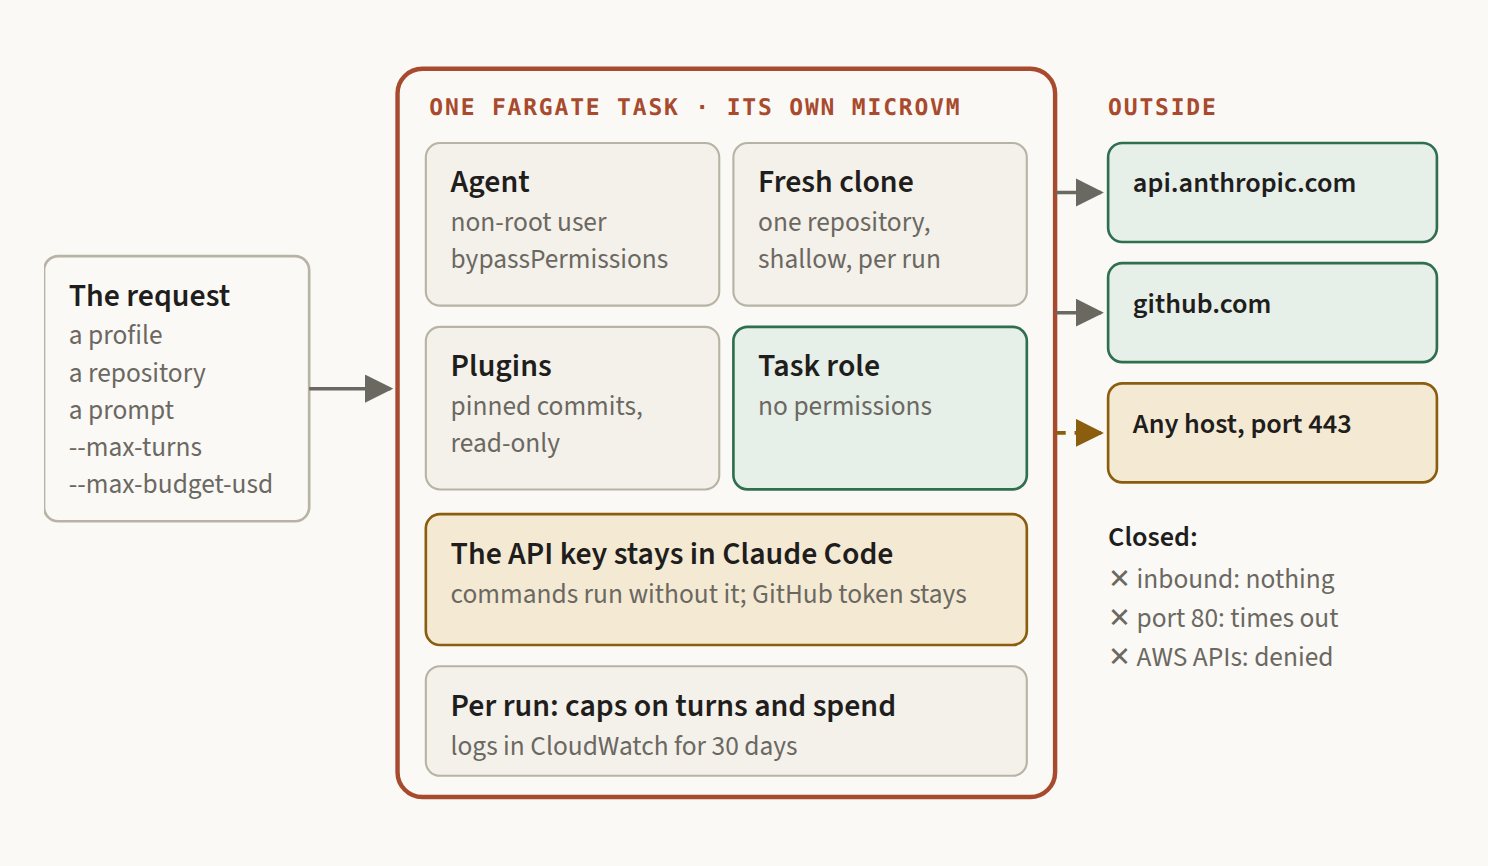
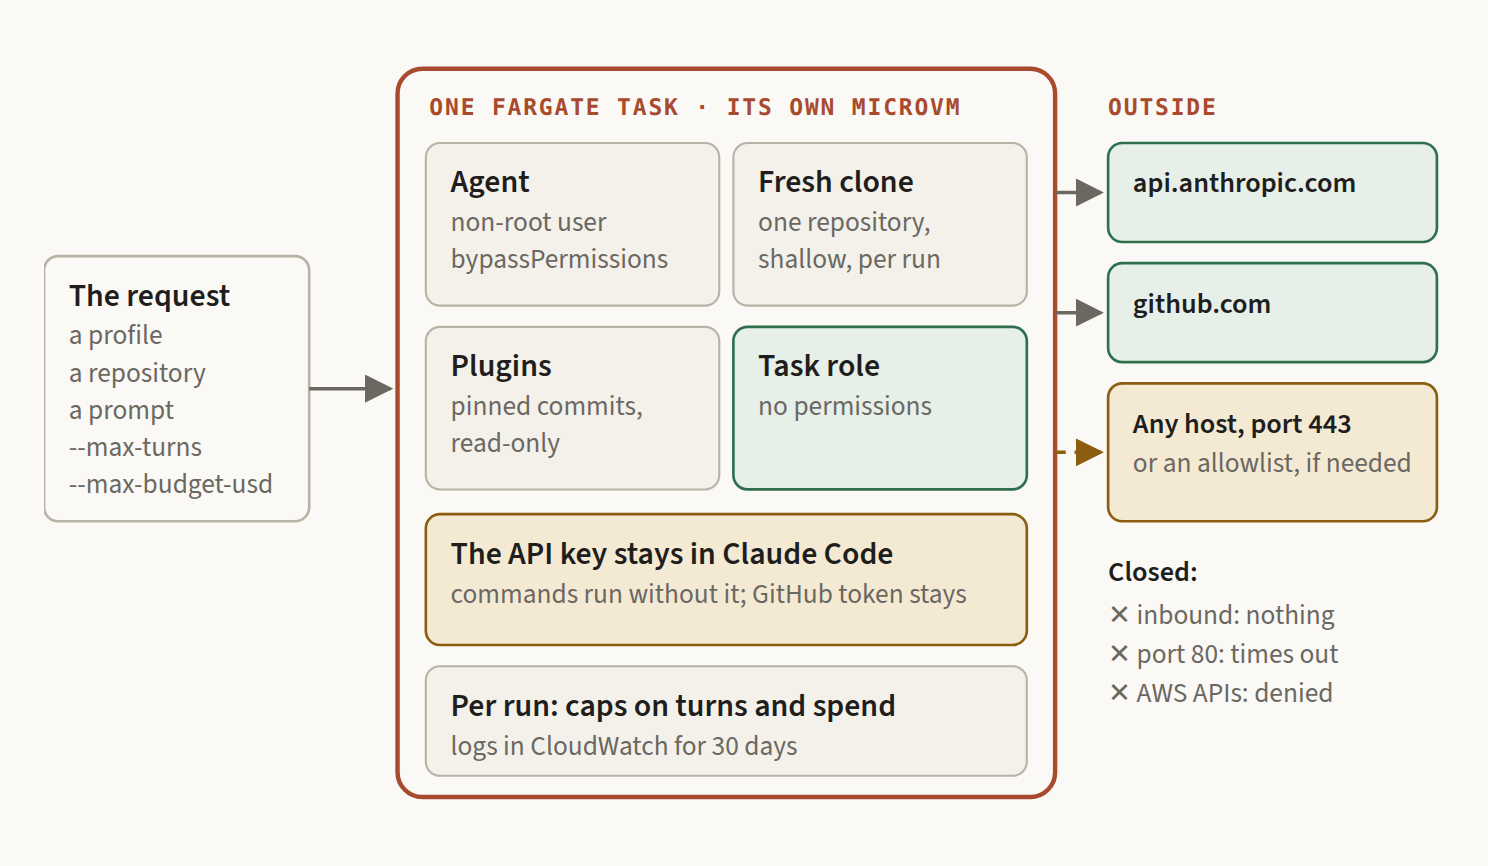
docs(articles): sandbox article - current state only, and the HTTPS allowlist
- the article describes the setup as it is: the scrub is part of the design and a
  probe checks it; no account of how it was found or fixed
- outbound HTTPS is open by default and can be restricted to an allowlist when a
  job needs it: in the design list, in leak 2 and in figure b1
- a hidden publish gate (an HTML comment) replaces the visible placeholder

Claude-Session: https://claude.ai/code/session_01EmG14EyCxmBJhJ5PsEeZFk

Changed region(s): [[0.7419, 0.53, 0.9892, 0.8106], [0.711, 0.4677, 0.7419, 0.53]]

diff --git a/articles/the-box-is-only-half-the-boundary.md b/articles/the-box-is-only-half-the-boundary.md
@@ -1,6 +1,6 @@
 # The Box Is Only Half the Boundary
 
-*What sixteen disposable Claude Code runs taught us about sandboxing coding agents, and the three leaks we found in our own.*
+*How we sandbox Claude Code on AWS Fargate, what sixteen disposable runs measured, and the three leaks a box does not close on its own.*
 
 ![A figure made of glowing sand presses its hand against the glass wall of a shipping crate labelled "Sand Genius", "High value intellectual asset" and "Export only", on a dock at sunset. A panel on the crate reads "A brilliant mind shouldn't stay confined."](images/header-sand-genius-in-a-crate.jpg)
 *Sand Genius, crated for shipping. AI-generated illustration.*
@@ -11,7 +11,7 @@ The crate in the picture carries the objection every team hears the first time i
 
 It is a fair point. An agent that has to ask before every `rm`, every `curl` and every `pip install` is not much of an agent, so teams switch the permission prompts off. Then comes the question that matters: with the prompts gone, what is left between the agent and everything else?
 
-We switched ours off too. The image in **[claude-docker-public](https://github.com/fibtecltd/claude-docker-public)** runs Claude Code with `bypassPermissions`, headless, on AWS Fargate. This post is about what makes that defensible, what we measured to check it, and the three leaks we found in it. Anthropic's own documentation is blunt about the problem underneath: bypass mode "offers no protection against prompt injection or unintended actions." A sandbox can't fix that. It can only decide how far the damage reaches.
+We switched ours off too. The image in **[claude-docker-public](https://github.com/fibtecltd/claude-docker-public)** runs Claude Code with `bypassPermissions`, headless, on AWS Fargate. This post is about what makes that defensible, what we measured to check it, and the three leaks a box does not close on its own. Anthropic's own documentation is blunt about the problem underneath: bypass mode "offers no protection against prompt injection or unintended actions." A sandbox can't fix that. It can only decide how far the damage reaches.
 
 ## Three questions every agent sandbox answers
 
@@ -33,16 +33,17 @@ One image, and one Fargate task per run. A run is an `ecs run-task` call; betwee
 - **A non-root user, nothing executed at start.** Claude Code refuses to start in bypass mode as root anyway.
 - **No volumes and no host mounts.** The only code in the box is a shallow clone of the one repository named in the request.
 - **A task role with no permissions.** Anything inside can sign AWS requests as the task role, and the role is allowed nothing.
-- **No inbound rule, and outbound HTTPS only.** One security group, one rule.
+- **No inbound rule, and outbound HTTPS only.** One security group, one rule. HTTPS is open to any host by default and can be restricted to an allowlist of hosts when a job needs it (leak 2 below).
+- **Commands do not inherit the API key.** The image sets Claude Code's subprocess scrub, and every guardrail run checks it from inside the task (leak 1 below).
 - **A pinned supply chain.** Plugins are fetched at the commits in a lock file at build time, owned by root and read-only for the agent. There is no marketplace call at run time, and CI fails the build if a credential is left in the image or its history.
 - **Caps on every run.** `--max-turns` and `--max-budget-usd` are required: limits belong to the task, not to the image.
 
-![One task, one box: the request names a profile and a repository; the Fargate task holds a non-root agent, a fresh clone, read-only pinned plugins and an empty role; outbound is HTTPS only and nothing connects in.](images/b1-one-task-one-box.png)
+![One task, one box: the request names a profile and a repository; the Fargate task holds a non-root agent, a fresh clone, read-only pinned plugins and an empty role; outbound is HTTPS only, to any host or to an allowlist if needed, and nothing connects in.](images/b1-one-task-one-box.png)
 *What is inside the box, and what crosses its edge. Everything on the left of the line is there on purpose.*
 
 ## Five things we tried from the inside
 
-We do not trust a diagram of a sandbox, so the test harness (`scripts/deploy/ecs-in-docker.sh runs`) makes the agent try things from inside the box and prints what happened. On 2026-10-14, two of the sixteen runs were guardrail probes: one asks the agent to run four shell commands, the other hits a spend cap on purpose.
+We do not trust a diagram of a sandbox, so the test harness (`scripts/deploy/ecs-in-docker.sh runs`) makes the agent try things from inside the box and prints what happened. On 2026-10-14 we made sixteen runs. Two of them were guardrail probes: one has the agent run shell commands against the role and the network, the other hits a spend cap on purpose.
 
 ![Five probes and what came back: the task role is shown by sts get-caller-identity, s3 ls is denied, HTTPS to the internet returns 200, plain HTTP on port 80 times out after 8 seconds, and a USD 0.05 spend cap stopped the run at USD 0.068.](images/b2-five-probes.png)
 *Five probes from inside a running task.*
@@ -53,28 +54,28 @@ The next two are the honest news. HTTPS to the open internet returns 200. Plain 
 
 The fifth is a lesson in what a cap is. We set a USD 0.05 budget and the run stopped, correctly, with `error_max_budget_usd`, at USD 0.068. A cap ends the run after the turn that crosses it, not to the cent, so treat it as a ceiling with slack. A cold one-word run on Sonnet 5.5 already costs more than the cap we used for the test (USD 0.0955 for the first call, USD 0.0077 for each later one, because the first call pays to write the prompt cache), so set caps above the starting context, or they will stop even a trivial task.
 
-All sixteen runs behaved as designed. That is a statement about the design. It is not a statement about safety. Notice, too, what the five probes do not ask: whether a command the agent runs can read the API key. We added that question after the sixteen runs, and it is the first leak below.
+All sixteen runs behaved as designed. That is a statement about the design. It is not a statement about safety.
 
 What disposability costs: about 32 seconds to a running container (30 to 36 across the sixteen runs, roughly 13 of provisioning and 15 of image pull, with no warm start), so a one-word task takes about a minute from command to exit. For an agent that works for twenty minutes, that is noise. For a quick check, it is the whole job. One sample each, one account, one region: read these as orders of magnitude.
 
-## Three leaks in our own box
+## Three leaks a box does not close on its own
 
-**1. The key is in the box.** The API key arrives from Secrets Manager as an environment variable, and with permission prompts off, every command the agent runs inherits it. Anthropic's dev-container page states the general case plainly: with permissions bypassed, a container does not prevent "exfiltrating anything accessible inside the container, including the Claude Code credentials stored in `~/.claude`."
+**1. The key is in the box.** The API key arrives from Secrets Manager as an environment variable, and with permission prompts off, every command the agent runs would inherit it. Anthropic's dev-container page states the general case plainly: with permissions bypassed, a container does not prevent "exfiltrating anything accessible inside the container, including the Claude Code credentials stored in `~/.claude`."
 
-Claude Code has an opt-in for exactly this, `CLAUDE_CODE_SUBPROCESS_ENV_SCRUB=1`. It removes credentials from the environment of the commands Claude Code starts, and on Linux it runs Bash in its own PID namespace, so a command cannot read the parent's environment through `/proc` either. The Claude Code process keeps the key, because it needs it to call the API. The scrub recognises a credential by the name of the variable or the shape of its value, and Anthropic's advice is to use it as one layer. It deliberately leaves `GITHUB_TOKEN` and `GH_TOKEN` in place so that `gh` keeps working, which means those two need scoping.
+Claude Code has an opt-in for exactly this, `CLAUDE_CODE_SUBPROCESS_ENV_SCRUB=1`, and our image sets it. It removes credentials from the environment of the commands Claude Code starts, and on Linux it runs Bash in its own PID namespace (through `bubblewrap`, which the image installs), so a command cannot read the parent's environment through `/proc` either. The Claude Code process keeps the key, because it needs it to call the API. The scrub recognises a credential by the name of the variable or the shape of its value, and Anthropic's advice is to use it as one layer. It deliberately leaves `GITHUB_TOKEN` and `GH_TOKEN` in place so that `gh` keeps working, which means those two need scoping.
 
-We had not set it. We have now, in the image, and instead of trusting the setting we added the question to the harness: two more commands in the same guardrail run. One prints `key-hidden` or `key-VISIBLE` depending on whether the key is in the command's own environment. The other counts the `/proc/*/environ` files the command can read that contain the key's name. Neither prints the key, and both build their output at run time, so an agent that quotes the command in its answer cannot pass the check by accident.
+The harness checks the setting from inside the task instead of trusting it: two commands in the guardrail run. One prints `key-hidden` or `key-VISIBLE` depending on whether the key is in the command's own environment. The other counts the `/proc/*/environ` files the command can read that contain the key's name. Neither prints the key, and both build their output at run time, so an agent that quotes the command in its answer cannot pass the check by accident.
 
-**[TO FILL IN from the AWS run (claude-docker-ecs PR 26): the same six commands on the old image and on the new one; key hidden, /proc count, whether `sts` still shows the task role, whether Bash still works. Remove this paragraph once filled in.]**
+<!-- PUBLISH GATE (not shown on the page): do not publish until claude-docker-ecs PR 26 has been verified on AWS: key hidden from a command and from /proc, sts still shows the task role, and Bash works under bubblewrap on Fargate. If any of them fails, rewrite leak 1 and figures b1 and b3. Delete this comment when verified. -->
 
-The scrub does not change one thing: the agent itself still holds the key. A command cannot read it, but a hijacked session can still spend it through the agent's own model calls, so the cap, not the scrub, limits that.
+The scrub leaves one thing alone: the agent itself still holds the key. A command cannot read it, but a hijacked session can still spend it through the agent's own model calls, so the cap, not the scrub, limits that.
 
 **2. Anywhere on 443.** Simon Willison's "lethal trifecta" is an agent that has private data, reads untrusted content and can communicate outward. Our box has all three. The private data is the clone and the keys. The untrusted content is every file the agent reads and every page it fetches. The way out is port 443, to anywhere. Anthropic recommends bypass mode "in isolated environments like containers, VMs, or dev containers without internet access"; ours has internet access, because the agent has to reach the model.
 
 ![The three legs of the lethal trifecta against our box: private data (the clone and the keys), untrusted content (every file it reads), and a way out (HTTPS to anywhere), each with what we do today and the lever that would narrow it.](images/b3-the-trifecta-ledger.png)
 *The three legs, what we do about each today, and the lever that would narrow it.*
 
-You can bound the way out or close it. The choice is made in the network, not in the container.
+Outbound HTTPS is open by default, and it can be restricted when a job needs it: you can bound the way out with an allowlist of hosts (a whitelist), or close it altogether. The choice is made in the network, not in the container.
 
 **Bounded.** Put the tasks in private subnets and send their outbound traffic through something that understands hostnames. AWS Network Firewall can hold a domain allowlist: for HTTPS it reads the hostname from the TLS SNI field, for HTTP from the Host header, and it drops every request for a domain not on the list. A forward proxy does the same job, and Claude Code honours `HTTPS_PROXY`. The list can be short: per Anthropic's network requirements, a headless run with an API key needs `api.anthropic.com` (the sign-in hosts are for OAuth, and the telemetry hosts are optional). Add `github.com` for the clone and whatever a task installs, and that is two or three names. Two warnings. `egress=nat`, the mode our stack already has, filters nothing on its own: a NAT gateway translates addresses, it does not read names. And a short list is not a closed channel. If `github.com` is on it and the token can push, a repository is a place to put data. DNS-level filtering is weaker still, because a connection to a bare IP address never asks DNS.
 
